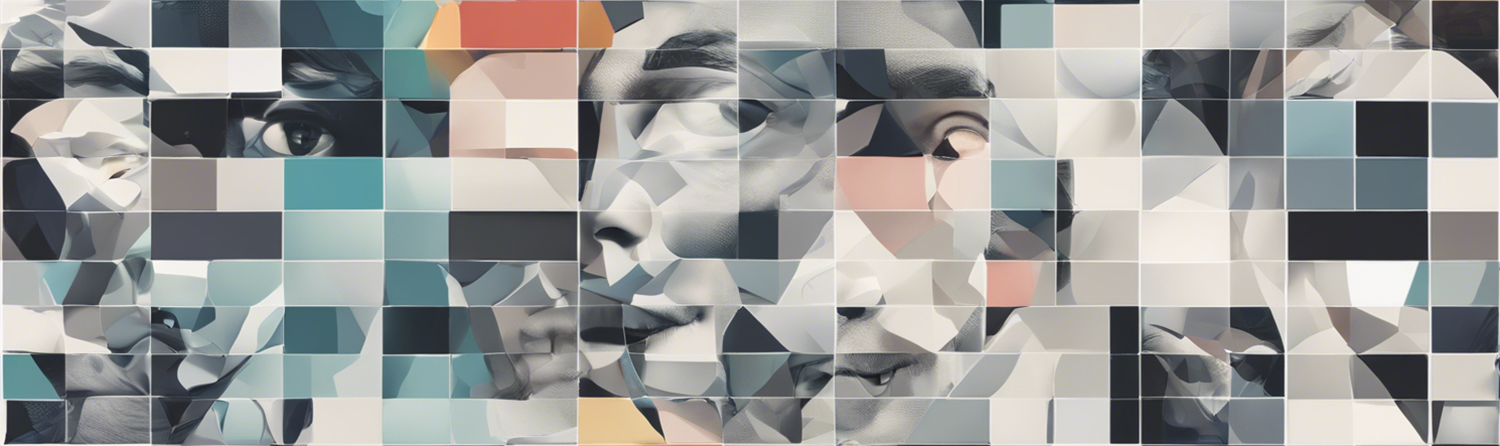
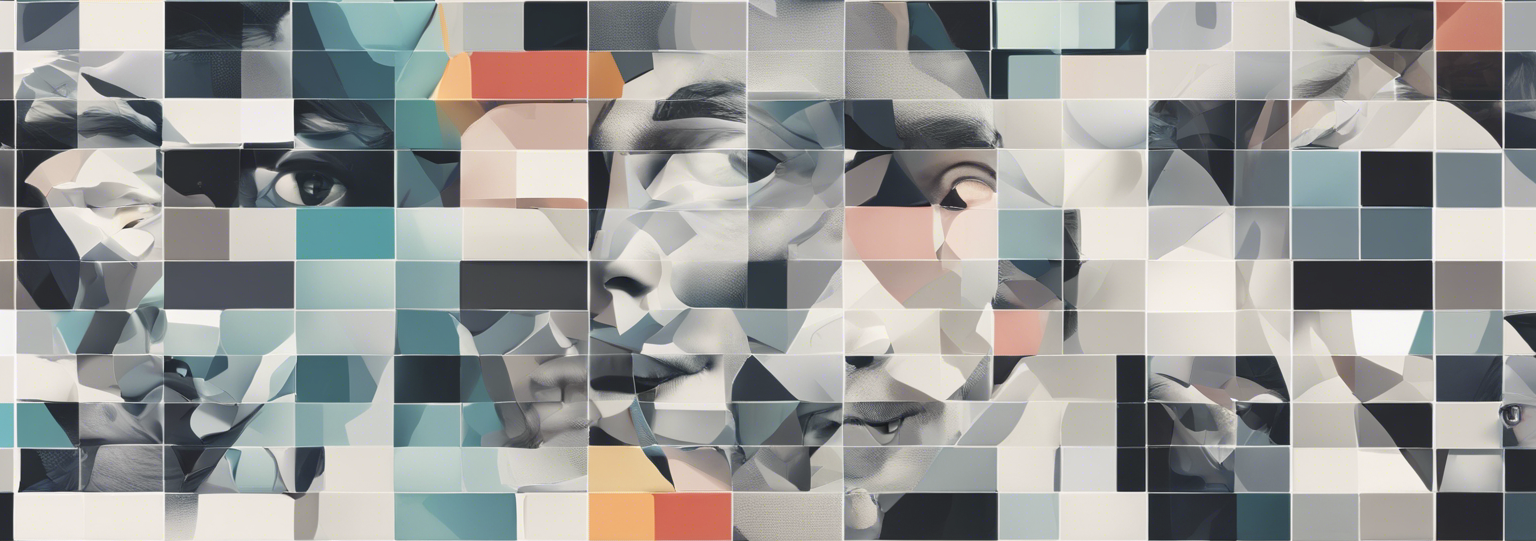
hahaha

diff --git a/content/_index.md b/content/_index.md
@@ -27,7 +27,7 @@ sections:
             brightness: 0.7
           parallax: false
           position: center
-          size: contain
+          size: cover
           text_color_light: true
       spacing:
         padding: ['20px', '0', '20px', '0']
